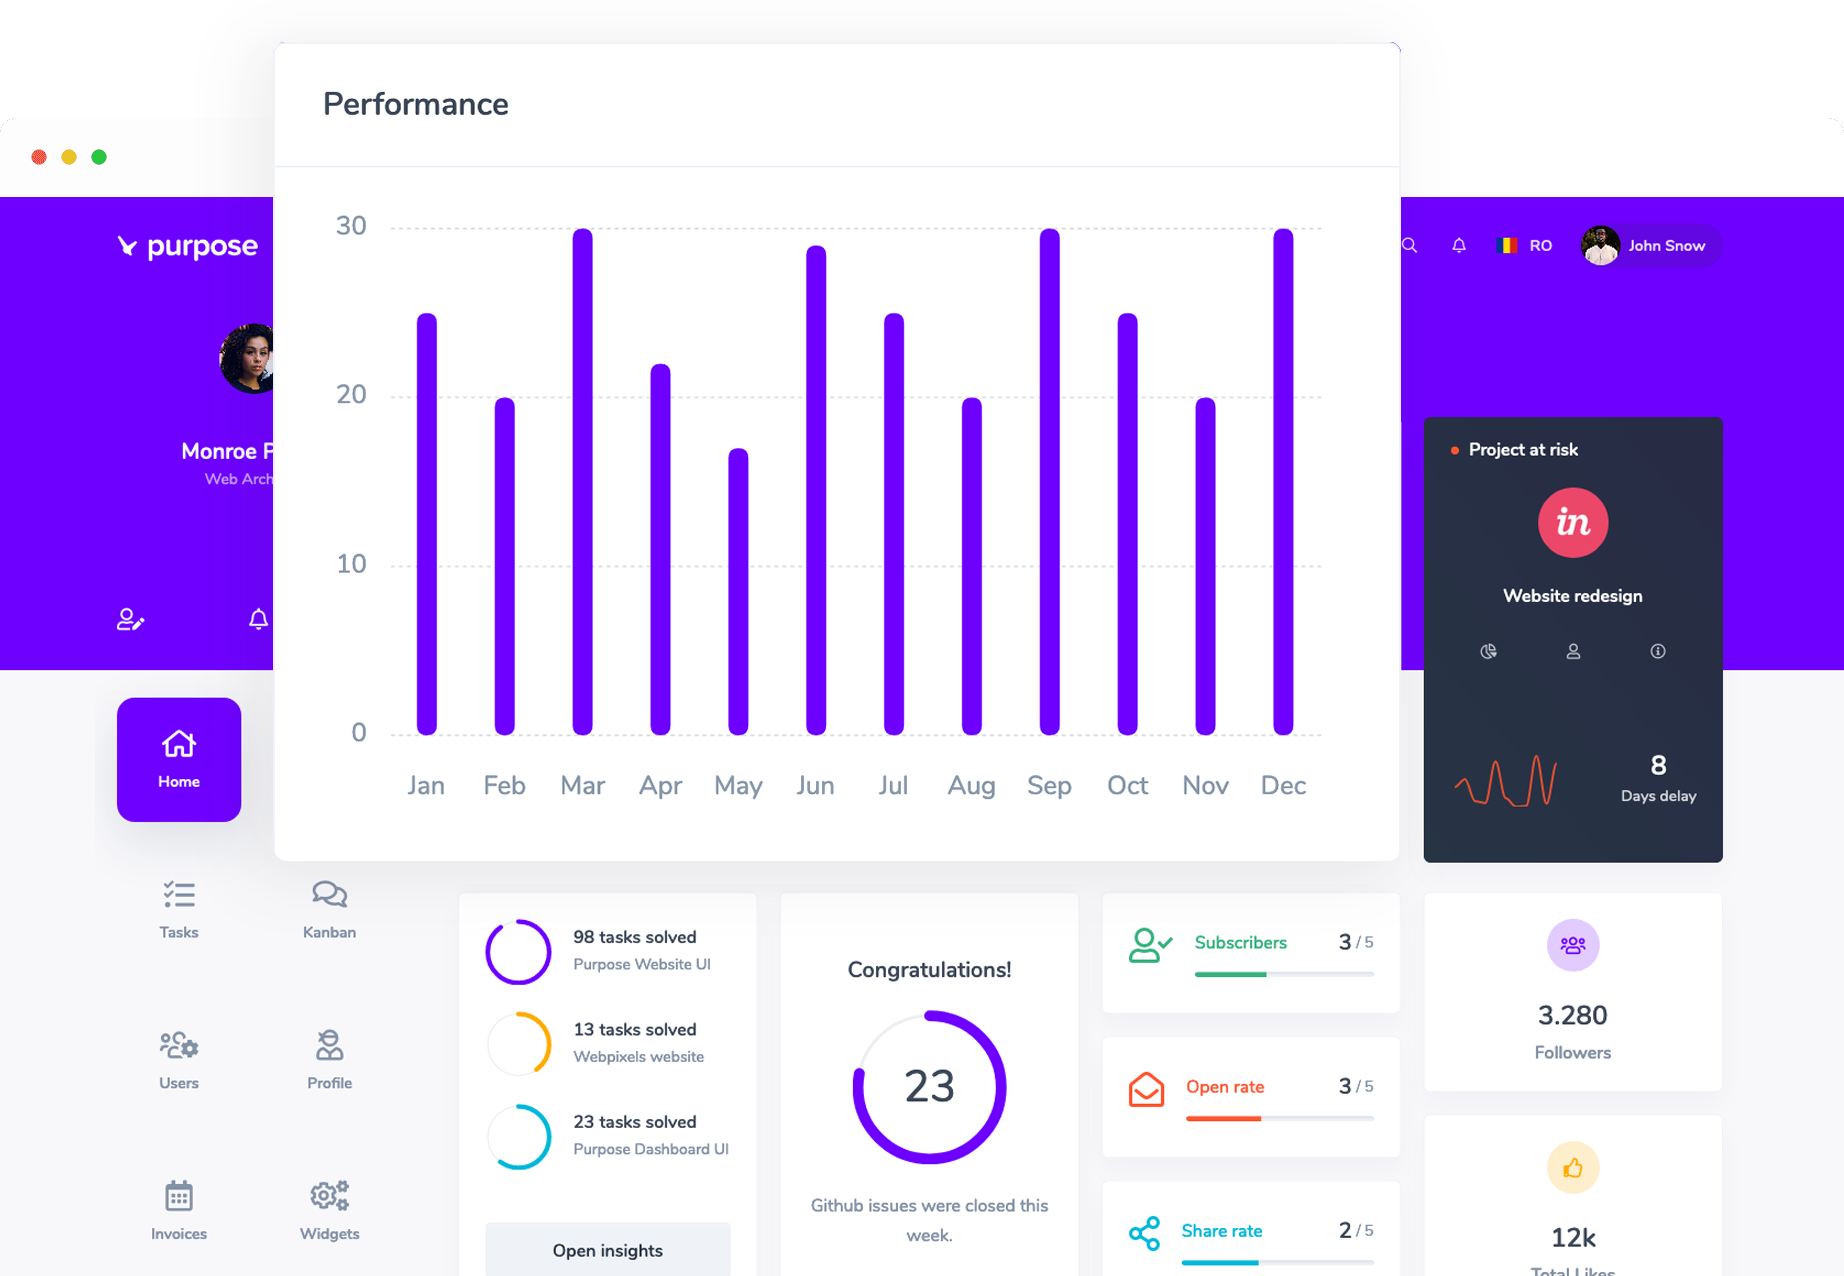
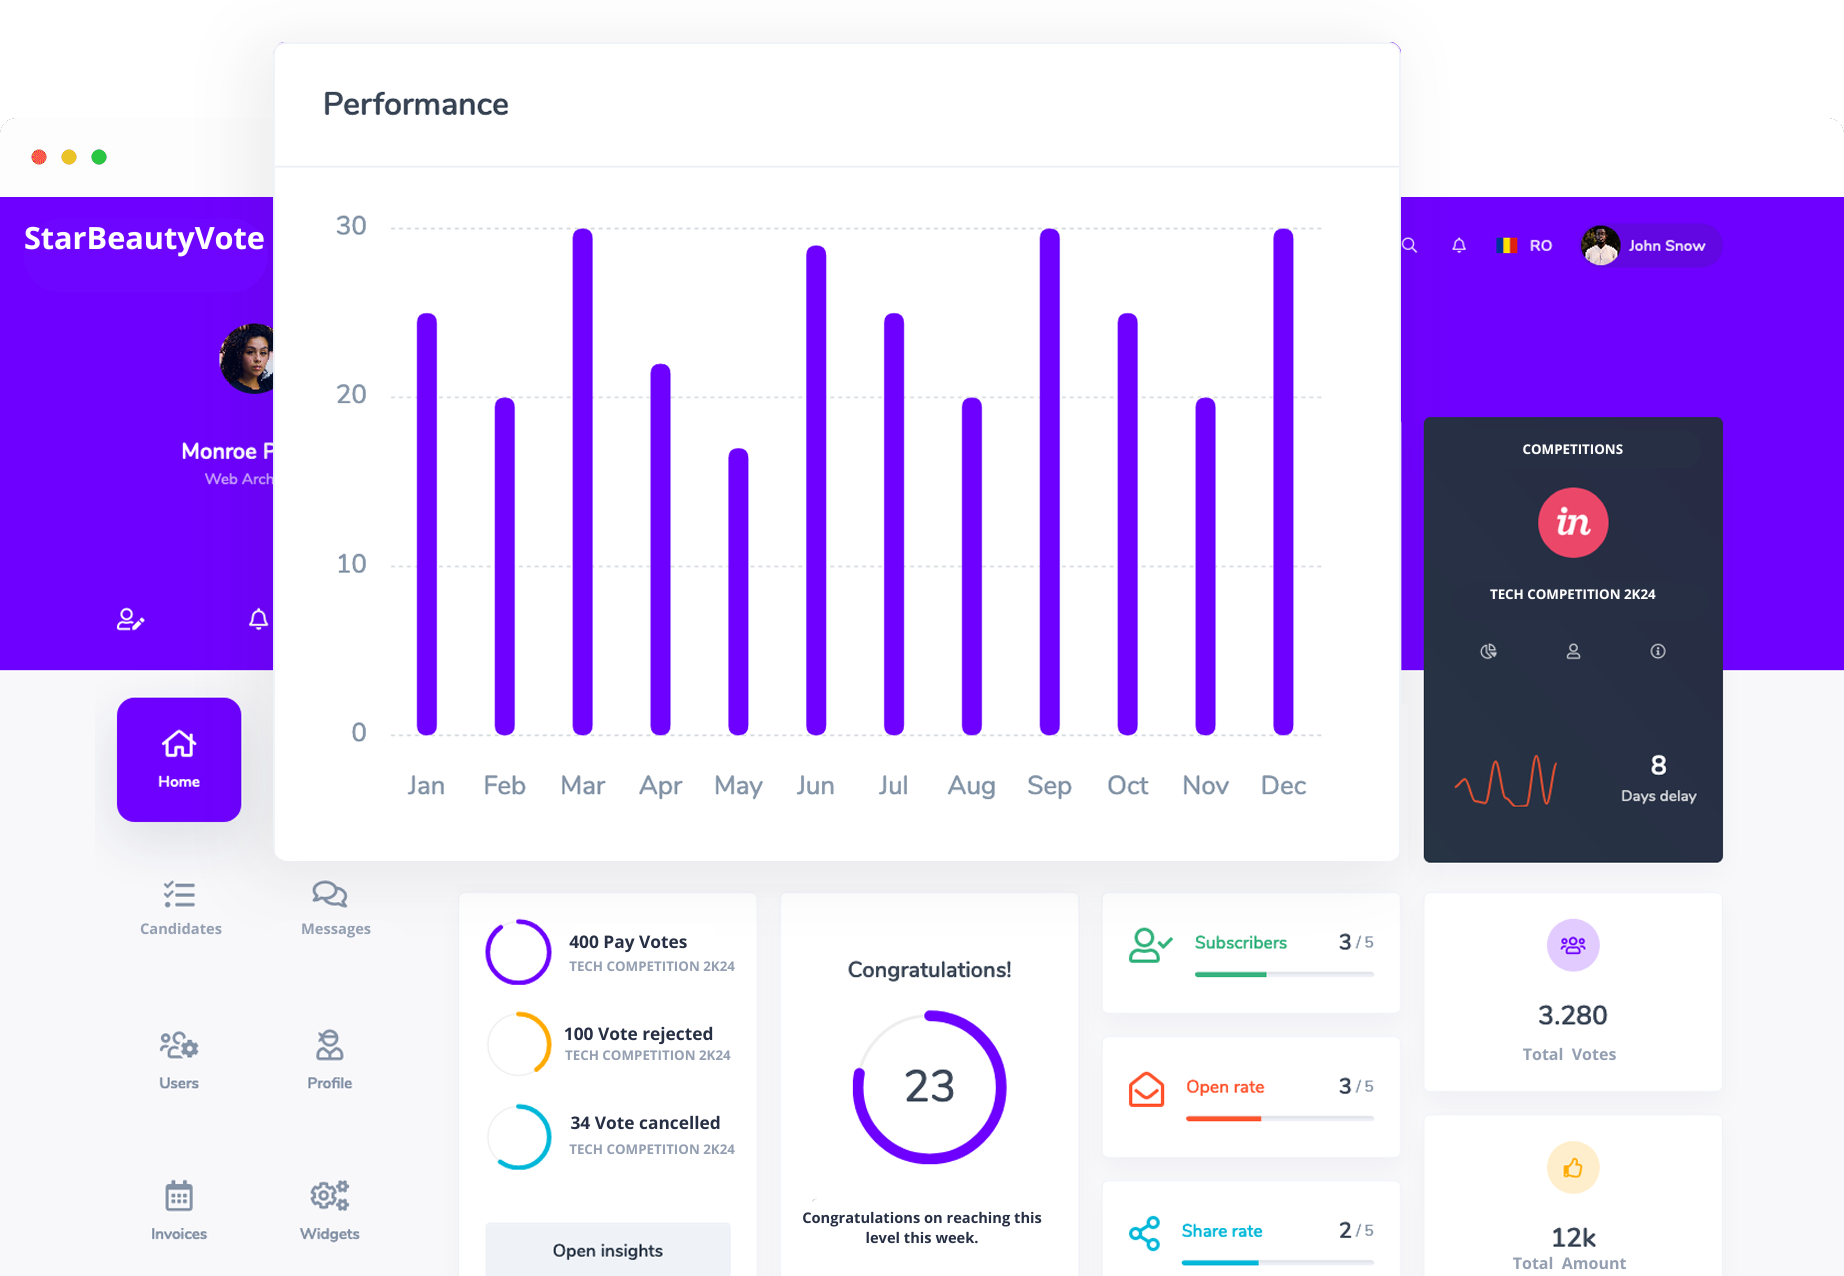
creation of image dash

diff --git a/starbeautyvote/templates/pages/index.html b/starbeautyvote/templates/pages/index.html
@@ -16,7 +16,7 @@
         <div class="col-lg-6 pt-lg-4 text-center">
           <h1 class="display-3 text-white mb-3">What's next?</h1>
           <p class="lead text-white lh-180 mx-auto">
-            At InnovaVote, we combine innovation and simplicity to offer intuitive and secure e-voting platforms. Whether you're organizing a contest, an election or any other participatory event, our technology ensures a smooth and reliable experience, tailored to your expectations.          </p>
+            At StarBeautyVote, we combine innovation and simplicity to offer intuitive and secure e-voting platforms. Whether you're organizing a contest, an election or any other participatory event, our technology ensures a smooth and reliable experience, tailored to your expectations.          </p>
           <a href="#sct-features" class="btn btn-primary rounded-pill hover-translate-y-n3 mt-4 d-none d-sm-inline-block" data-scroll-to>See features</a>
           <a href="/competitionLanding" class="btn btn-white btn-icon rounded-pill hover-translate-y-n3 mt-4">
             <span class="btn-inner--text">Explore Competition </span>
@@ -201,20 +201,24 @@
     <div class="container pt-9 pb-0 position-relative zindex-100">
       <div class="row justify-content-center text-center mb-5">
         <div class="col-xl-6 col-lg-7">
-          <h2 class="h1">Change the way you build web apps. Forever.</h2>
+          <h2 class="h1"> Transform the Way You Manage Voting Campaigns!</h2>
           <p class="lead px-lg-5">
-            With Purpose you get components and examples, including tons of variables that will help you customize this theme with ease.
-          </p>
+             Discover a seamless platform that revolutionizes voting management:
+            Transparent Voting,Candidate Management,  Financial Integrity, Instant Payouts:        </p>
         </div>
       </div>
       <div class="row">
         <div class="col-lg-3 col-md-4 mb-4 mb-md-0 pt-lg-6 pr-lg-4">
-          <h4 class="mb-4">Experience quality</h4>
+          <h4 class="mb-4">Efficient and Unified Functionality
+          </h4>
           <p class="lead">
-            Purpose makes it super easy for developers to create unified pages and features for a product by using a single code base for everything
+            At StarBeautyVote, managing voting campaigns and finances is effortless. Our platform ensures transparent voting processes and seamless candidate management. Easily track and transfer funds securely to bank accounts or mobile money.
+
+
           </p>
           <p class="lead mt-5">
-            You will find it super easy to work with any of the Purpose templates because they have the same classes and component structure.
+            StarBeautyVote provides a unified solution for managing voting and finances.
+
           </p>
         </div>
         <div class="col mb-lg-n7">
